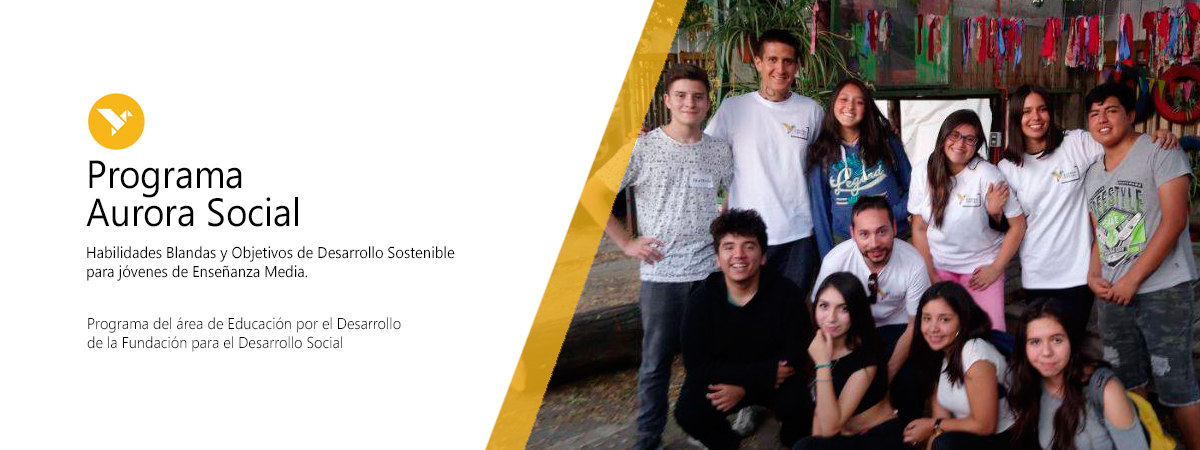
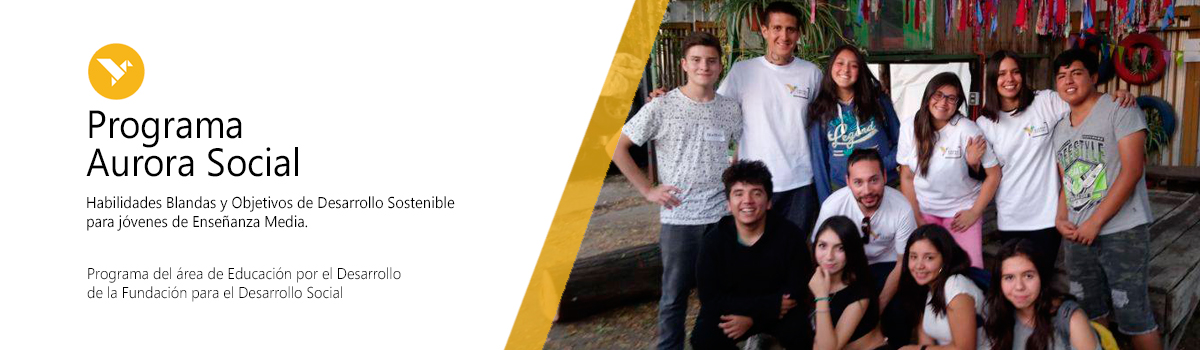
aurora, nav

diff --git a/src/curso-ods.html b/src/curso-ods.html
@@ -41,8 +41,8 @@
                             </a>
                             <div class="dropdown-menu" aria-labelledby="navbarDropdownMenuLink">
                                 <a class="dropdown-item" href="aurora-social.html">Programa Aurora Social</a>
-                                <a class="dropdown-item" href="curso-ods.html">Cursos de Objetivos para el Desarrollo Sostenible</a>
-                                <a class="dropdown-item" href="comunicacion-desarrollo.html">Cursos de Comunicación para el Desarrollo</a>
+                                <a class="dropdown-item" href="curso-ods.html">Curso de Objetivos para el Desarrollo Sostenible</a>
+                                <a class="dropdown-item" href="comunicacion-desarrollo.html">Curso de Comunicación para el Desarrollo</a>
                                 <a class="dropdown-item" href="ijes.html">Programa IJES</a>
                                 <a class="dropdown-item" href="innmigrando.html">Proyecto Innmigrando</a>
                                 <a class="dropdown-item" href="cultura.html">Proyecto Cultura Sostenible</a>
@@ -75,21 +75,27 @@
         <!-- header -->
         <section class="row titles">
             <div class="col-12 text-center">
-                <p class="display-4"><img class="logo-projects" src="../assets/img/logos/logoODS.png" alt=""> Cursos de Objetivos para el Desarrollo Sostenible</p>
+                <p class="display-4"><img class="logo-projects" src="../assets/img/logos/logoODS.png" alt="">  Curso de Objetivos para el Desarrollo Sostenible</p>
                 <p class="lead">La Agenda 2030 abierta para toda la Sociedad</p>
                 <hr>                
             </div>
             <div class="col-12 p-projects text-justify"> 
                 <p>El proyecto nace de la desinformación que existe respecto de los Objetivos de Desarrollo Sostenible y su importancia en la toma de decisiones políticas, ambientales y sociales; además de la desigualdad que existe entre los sectores económicos que hace que muchas personas no tengan acceso a educación o a estar informados para ejercer sus derechos civiles. Por lo tanto, las personas desean tener información, sin embargo muchas veces no tienen tiempo para ir a charlas o estar un semestre en un programa académico, razón por la cual surge la iniciativa de impartir un curso sobre los Objetivos de Desarrollo Sostenible de las Naciones Unidas.</p>
-                <p>El objetivo general del Curso de Objetivos para el Desarrollo Sostenible es dar a conocer de manera introductoria los ODS a todas las personas interesadas en el tema y crear equipos de trabajo en función de los diferentes ODS al término de cada módulo, formado por las personas con mayor interés por algún objetivo en específico.</p>
-                <p>Para esto se realizan 17 módulos sobre los ODS (uno por cada objetivo) para:</p>
+            </div>
+            <div class="col-12 col-md- 6 col-lg-6 col-xl-6 p-projects text-center align-self-center">
+                <p>En el curso participan aquellas personas interesadas en los temas relacionados con los <b>Objetivos de Desarrollo Sostenible  y la Agenda 2030 en Chile</b>. Este proyecto busca generar mayor consciencia sobre el Desarrollo Sostenible que se plantea para Chile en los participantes de los talleres y en la comunidades en las cuales cada uno se desenvuelve.</p>
+                <p>Estas actividades se realizan gracias a la colaboración de la Universidad de Santiago, que nos apoya con equipamiento y espacios de trabajo para el desarrollo de las clases, se realizan 19 módulos con el mejor exponente para cada Objetivo de Desarrollo Sostenible.</p>
+            </div>
+            <div class="col-12 col-md- 6 col-lg-6 col-xl-6 text-center align-self-center">
+                <img class="img-fudeso" src="../assets/img/projects/aurora.jpg" alt="Curso ODS Social 2018">
+            </div>
+            <div class="col-12 p-projects text-justify"> 
+                <p>El objetivo general del Curso de Objetivos para el Desarrollo Sostenible es dar a conocer de manera introductoria los ODS a todas las personas interesadas en el tema y crear equipos de trabajo en función de los diferentes ODS al término de cada módulo, formado por las personas con mayor interés por algún objetivo en específico. En cada curso se realizan 17 módulos sobre los ODS (uno por cada objetivo) para:</p>
                 <ul>
                     <li>Sensibilizar a la comunidad participante con la urgencia y relevancia de los objetivos.</li>
                     <li>Motivar y empoderar a las personas a que participen en iniciativas para el desarrollo.</li>
                     <li>Promover las redes de trabajo interdisciplinarias entre los participantes.  </li>
                 </ul>
-                <p>Estas actividades se realizan gracias a la colaboración de la Universidad de Santiago, que nos apoya con equipamiento y espacios de trabajo para el desarrollo de las clases, se realizan 19 módulos con el mejor exponente para cada Objetivo de Desarrollo Sostenible.</p>    
-                <p>En el curso participan aquellas personas interesadas en los temas de los Objetivos de Desarrollo Sostenible y la Agenda 2030 y este proyecto .busca generar en ellos y en la comunidad mayor consciencia sobre el Desarrollo Sostenible que se plantea para Chile.</p>
             </div>
         </section>
         <!-- Footer -->

diff --git a/src/aurora-social.html b/src/aurora-social.html
@@ -41,8 +41,8 @@
                             </a>
                             <div class="dropdown-menu" aria-labelledby="navbarDropdownMenuLink">
                                 <a class="dropdown-item" href="aurora-social.html">Programa Aurora Social</a>
-                                <a class="dropdown-item" href="curso-ods.html">Cursos de Objetivos para el Desarrollo Sostenible</a>
-                                <a class="dropdown-item" href="comunicacion-desarrollo.html">Cursos de Comunicación para el Desarrollo</a>
+                                <a class="dropdown-item" href="curso-ods.html">Curso de Objetivos para el Desarrollo Sostenible</a>
+                                <a class="dropdown-item" href="comunicacion-desarrollo.html">Curso de Comunicación para el Desarrollo</a>
                                 <a class="dropdown-item" href="ijes.html">Programa IJES</a>
                                 <a class="dropdown-item" href="innmigrando.html">Proyecto Innmigrando</a>
                                 <a class="dropdown-item" href="cultura.html">Proyecto Cultura Sostenible</a>
@@ -84,11 +84,16 @@
                 <p>Además, el actual modelo educativo nacional mantiene prácticas desactualizadas con relación al contexto de las nuevas generaciones y desplaza las diferencias válidas que pueden existir entre uno u otro estudiante en términos de habilidades y aspiraciones personales.</p>
                 <p>En este contexto, una parte importante de los jóvenes que egresan de la Enseñanza Media evidencian una mirada individualista del mundo actual y que para enfrentar las situaciones de la vida adulta, requieren desarrollar habilidades blandas tales como liderazgo, trabajo en equipo, comunicación efectiva, tolerancia a la frustración, entre otras.  Siendo necesario también el desarrollo individual de una visión crítica y consciente entorno a las problemáticas que aquejan tanto al planeta como al país desde el punto de vista social, económico y ambiental.</p>
                 <hr>
-                <img class="thumbnail-fudeso float-right" src="../assets/img/aurora/aurorasocial-1.jpg" alt="Grupo Aurora Social 2018">
+            </div>
+            <div class="col-12 col-md- 6 col-lg-6 col-xl-6 p-projects text-center align-self-center">
                 <p>Como <strong>Fundación para el Desarrollo Social (FUDESO)</strong> creemos que es importante trabajar con los jóvenes en estas materias, para que desarrollen sus habilidades sociales y personales que les facilite un desarrollo individual en su vida adulta, y formen una visión crítica y consciente sobre sus propias capacidades y el entorno que los rodea.</p>
                 <p>Para esto hemos desarrollado el proyecto llamado <strong>Aurora Social</strong>, el cual se centra en los <i>Objetivos de Desarrollo Sostenible (ODS) de laAgenda 2030</i> y el desarrollo de habilidades blandas para jóvenes de Enseñanza Media.</p>                
-                <p>El objetivo general de <strong>Aurora Social</strong> es desarrollar habilidades blandas y concientizar acerca de las problemáticas globales y locales desde el punto de vista ambiental, social y económico, en jóvenes de enseñanza media.</p>
-                <p>Para esto trabajamos los siguientes aspectos:</p>
+            </div>
+            <div class="col-12 col-md- 6 col-lg-6 col-xl-6 text-center align-self-center">
+                <img class="img-fudeso" src="../assets/img/projects/aurora.jpg" alt="Grupo Aurora Social 2018">
+            </div>
+            <div class="col-12 p-projects text-justify"> 
+                <p>El objetivo general de <strong>Aurora Social</strong> es desarrollar habilidades blandas y concientizar acerca de las problemáticas globales y locales desde el punto de vista ambiental, social y económico, en jóvenes de enseñanza media. En este sentido, trabajamos los siguientes aspectos:</p>
                 <ul>
                     <li>Desarrollar habilidades blandas a través de actividades dinámicas y cotidianas.</li>
                     <li>Fomentar la importancia de las habilidades blandas para enfrentar la vida adulta.</li>

diff --git a/src/about.html b/src/about.html
@@ -41,8 +41,8 @@
                             </a>
                             <div class="dropdown-menu" aria-labelledby="navbarDropdownMenuLink">
                                 <a class="dropdown-item" href="aurora-social.html">Programa Aurora Social</a>
-                                <a class="dropdown-item" href="curso-ods.html">Cursos de Objetivos para el Desarrollo Sostenible</a>
-                                <a class="dropdown-item" href="comunicacion-desarrollo.html">Cursos de Comunicación para el Desarrollo</a>
+                                <a class="dropdown-item" href="curso-ods.html">Curso de Objetivos para el Desarrollo Sostenible</a>
+                                <a class="dropdown-item" href="comunicacion-desarrollo.html">Curso de Comunicación para el Desarrollo</a>
                                 <a class="dropdown-item" href="ijes.html">Programa IJES</a>
                                 <a class="dropdown-item" href="innmigrando.html">Proyecto Innmigrando</a>
                                 <a class="dropdown-item" href="cultura.html">Proyecto Cultura Sostenible</a>
@@ -79,7 +79,7 @@
             </div>
             <div class="col-12">
                 <div class="row">
-                    <div class="col-12 col-md-7 col-lg-7 text-justify p-3">
+                    <div class="col-12 col-md-7 col-lg-7 text-justify p-projects">
                     <p >Nuestra Fundación tiene en términos sistémicos dos grandes componentes. Por un lado, se encuentra nuestro organigrama institucional donde la organización es dirigida por un equipo de diversas personas, agrupadas por clústers, áreas y equipos de trabajo. Por otro lado, la organización tiene un sistema de trabajo por proyectos, los cuales se pueden dividir en 3 grandes líneas:</p>
                     <ul>
                         <li>Proyectos Sociales.</li>

diff --git a/index.html b/index.html
@@ -41,8 +41,8 @@
                             </a>
                             <div class="dropdown-menu" aria-labelledby="navbarDropdownMenuLink">
                                 <a class="dropdown-item" href="src/aurora-social.html">Programa Aurora Social</a>
-                                <a class="dropdown-item" href="src/curso-ods.html">Cursos de Objetivos para el Desarrollo Sostenible</a>
-                                <a class="dropdown-item" href="src/comunicacion-desarrollo.html">Cursos de Comunicación para el Desarrollo</a>
+                                <a class="dropdown-item" href="src/curso-ods.html">Curso de Objetivos para el Desarrollo Sostenible</a>
+                                <a class="dropdown-item" href="src/comunicacion-desarrollo.html">Curso de Comunicación para el Desarrollo</a>
                                 <a class="dropdown-item" href="src/ijes.html">Programa IJES</a>
                                 <a class="dropdown-item" href="src/innmigrando.html">Proyecto Innmigrando</a>
                                 <a class="dropdown-item" href="src/cultura.html">Proyecto Cultura Sostenible</a>
@@ -103,7 +103,7 @@
                 </div>
             </div>
             <div class="col-12 col-md-6 col-lg-6 text-center align-self-center">         
-                <img class="img-fudeso img-rounded" src="./assets/img/iug-6.jpg" alt="Graduación de Proyectos FUDESO 2018.">
+                <img class="img-fudeso" src="./assets/img/iug-6.jpg" alt="Graduación de Proyectos FUDESO 2018.">
                 <p>Graduación de Proyectos FUDESO 2018.</p>
             </div>
         </section>

diff --git a/src/comunicacion-desarrollo.html b/src/comunicacion-desarrollo.html
@@ -41,8 +41,8 @@
                             </a>
                             <div class="dropdown-menu" aria-labelledby="navbarDropdownMenuLink">
                                 <a class="dropdown-item" href="aurora-social.html">Programa Aurora Social</a>
-                                <a class="dropdown-item" href="curso-ods.html">Cursos de Objetivos para el Desarrollo Sostenible</a>
-                                <a class="dropdown-item" href="comunicacion-desarrollo.html">Cursos de Comunicación para el Desarrollo</a>
+                                <a class="dropdown-item" href="curso-ods.html">Curso de Objetivos para el Desarrollo Sostenible</a>
+                                <a class="dropdown-item" href="comunicacion-desarrollo.html">Curso de Comunicación para el Desarrollo</a>
                                 <a class="dropdown-item" href="ijes.html">Programa IJES</a>
                                 <a class="dropdown-item" href="innmigrando.html">Proyecto Innmigrando</a>
                                 <a class="dropdown-item" href="cultura.html">Proyecto Cultura Sostenible</a>

diff --git a/src/cultura.html b/src/cultura.html
@@ -41,8 +41,8 @@
                             </a>
                             <div class="dropdown-menu" aria-labelledby="navbarDropdownMenuLink">
                                 <a class="dropdown-item" href="aurora-social.html">Programa Aurora Social</a>
-                                <a class="dropdown-item" href="curso-ods.html">Cursos de Objetivos para el Desarrollo Sostenible</a>
-                                <a class="dropdown-item" href="comunicacion-desarrollo.html">Cursos de Comunicación para el Desarrollo</a>
+                                <a class="dropdown-item" href="curso-ods.html">Curso de Objetivos para el Desarrollo Sostenible</a>
+                                <a class="dropdown-item" href="comunicacion-desarrollo.html">Curso de Comunicación para el Desarrollo</a>
                                 <a class="dropdown-item" href="ijes.html">Programa IJES</a>
                                 <a class="dropdown-item" href="innmigrando.html">Proyecto Innmigrando</a>
                                 <a class="dropdown-item" href="cultura.html">Proyecto Cultura Sostenible</a>

diff --git a/src/donate.html b/src/donate.html
@@ -41,8 +41,8 @@
                             </a>
                             <div class="dropdown-menu" aria-labelledby="navbarDropdownMenuLink">
                                 <a class="dropdown-item" href="aurora-social.html">Programa Aurora Social</a>
-                                <a class="dropdown-item" href="curso-ods.html">Cursos de Objetivos para el Desarrollo Sostenible</a>
-                                <a class="dropdown-item" href="comunicacion-desarrollo.html">Cursos de Comunicación para el Desarrollo</a>
+                                <a class="dropdown-item" href="curso-ods.html">Curso de Objetivos para el Desarrollo Sostenible</a>
+                                <a class="dropdown-item" href="comunicacion-desarrollo.html">Curso de Comunicación para el Desarrollo</a>
                                 <a class="dropdown-item" href="ijes.html">Programa IJES</a>
                                 <a class="dropdown-item" href="innmigrando.html">Proyecto Innmigrando</a>
                                 <a class="dropdown-item" href="cultura.html">Proyecto Cultura Sostenible</a>

diff --git a/src/faq.html b/src/faq.html
@@ -41,8 +41,8 @@
                             </a>
                             <div class="dropdown-menu" aria-labelledby="navbarDropdownMenuLink">
                                 <a class="dropdown-item" href="aurora-social.html">Programa Aurora Social</a>
-                                <a class="dropdown-item" href="curso-ods.html">Cursos de Objetivos para el Desarrollo Sostenible</a>
-                                <a class="dropdown-item" href="comunicacion-desarrollo.html">Cursos de Comunicación para el Desarrollo</a>
+                                <a class="dropdown-item" href="curso-ods.html">Curso de Objetivos para el Desarrollo Sostenible</a>
+                                <a class="dropdown-item" href="comunicacion-desarrollo.html">Curso de Comunicación para el Desarrollo</a>
                                 <a class="dropdown-item" href="ijes.html">Programa IJES</a>
                                 <a class="dropdown-item" href="innmigrando.html">Proyecto Innmigrando</a>
                                 <a class="dropdown-item" href="cultura.html">Proyecto Cultura Sostenible</a>

diff --git a/src/ijes.html b/src/ijes.html
@@ -41,8 +41,8 @@
                             </a>
                             <div class="dropdown-menu" aria-labelledby="navbarDropdownMenuLink">
                                 <a class="dropdown-item" href="aurora-social.html">Programa Aurora Social</a>
-                                <a class="dropdown-item" href="curso-ods.html">Cursos de Objetivos para el Desarrollo Sostenible</a>
-                                <a class="dropdown-item" href="comunicacion-desarrollo.html">Cursos de Comunicación para el Desarrollo</a>
+                                <a class="dropdown-item" href="curso-ods.html">Curso de Objetivos para el Desarrollo Sostenible</a>
+                                <a class="dropdown-item" href="comunicacion-desarrollo.html">Curso de Comunicación para el Desarrollo</a>
                                 <a class="dropdown-item" href="ijes.html">Programa IJES</a>
                                 <a class="dropdown-item" href="innmigrando.html">Proyecto Innmigrando</a>
                                 <a class="dropdown-item" href="cultura.html">Proyecto Cultura Sostenible</a>

diff --git a/src/innmigrando.html b/src/innmigrando.html
@@ -41,8 +41,8 @@
                             </a>
                             <div class="dropdown-menu" aria-labelledby="navbarDropdownMenuLink">
                                 <a class="dropdown-item" href="aurora-social.html">Programa Aurora Social</a>
-                                <a class="dropdown-item" href="curso-ods.html">Cursos de Objetivos para el Desarrollo Sostenible</a>
-                                <a class="dropdown-item" href="comunicacion-desarrollo.html">Cursos de Comunicación para el Desarrollo</a>
+                                <a class="dropdown-item" href="curso-ods.html">Curso de Objetivos para el Desarrollo Sostenible</a>
+                                <a class="dropdown-item" href="comunicacion-desarrollo.html">Curso de Comunicación para el Desarrollo</a>
                                 <a class="dropdown-item" href="ijes.html">Programa IJES</a>
                                 <a class="dropdown-item" href="innmigrando.html">Proyecto Innmigrando</a>
                                 <a class="dropdown-item" href="cultura.html">Proyecto Cultura Sostenible</a>

diff --git a/src/revista-ods.html b/src/revista-ods.html
@@ -41,8 +41,8 @@
                             </a>
                             <div class="dropdown-menu" aria-labelledby="navbarDropdownMenuLink">
                                 <a class="dropdown-item" href="aurora-social.html">Programa Aurora Social</a>
-                                <a class="dropdown-item" href="curso-ods.html">Cursos de Objetivos para el Desarrollo Sostenible</a>
-                                <a class="dropdown-item" href="comunicacion-desarrollo.html">Cursos de Comunicación para el Desarrollo</a>
+                                <a class="dropdown-item" href="curso-ods.html">Curso de Objetivos para el Desarrollo Sostenible</a>
+                                <a class="dropdown-item" href="comunicacion-desarrollo.html">Curso de Comunicación para el Desarrollo</a>
                                 <a class="dropdown-item" href="ijes.html">Programa IJES</a>
                                 <a class="dropdown-item" href="innmigrando.html">Proyecto Innmigrando</a>
                                 <a class="dropdown-item" href="cultura.html">Proyecto Cultura Sostenible</a>

diff --git a/src/support.html b/src/support.html
@@ -41,8 +41,8 @@
                             </a>
                             <div class="dropdown-menu" aria-labelledby="navbarDropdownMenuLink">
                                 <a class="dropdown-item" href="aurora-social.html">Programa Aurora Social</a>
-                                <a class="dropdown-item" href="curso-ods.html">Cursos de Objetivos para el Desarrollo Sostenible</a>
-                                <a class="dropdown-item" href="comunicacion-desarrollo.html">Cursos de Comunicación para el Desarrollo</a>
+                                <a class="dropdown-item" href="curso-ods.html">Curso de Objetivos para el Desarrollo Sostenible</a>
+                                <a class="dropdown-item" href="comunicacion-desarrollo.html">Curso de Comunicación para el Desarrollo</a>
                                 <a class="dropdown-item" href="ijes.html">Programa IJES</a>
                                 <a class="dropdown-item" href="innmigrando.html">Proyecto Innmigrando</a>
                                 <a class="dropdown-item" href="cultura.html">Proyecto Cultura Sostenible</a>
